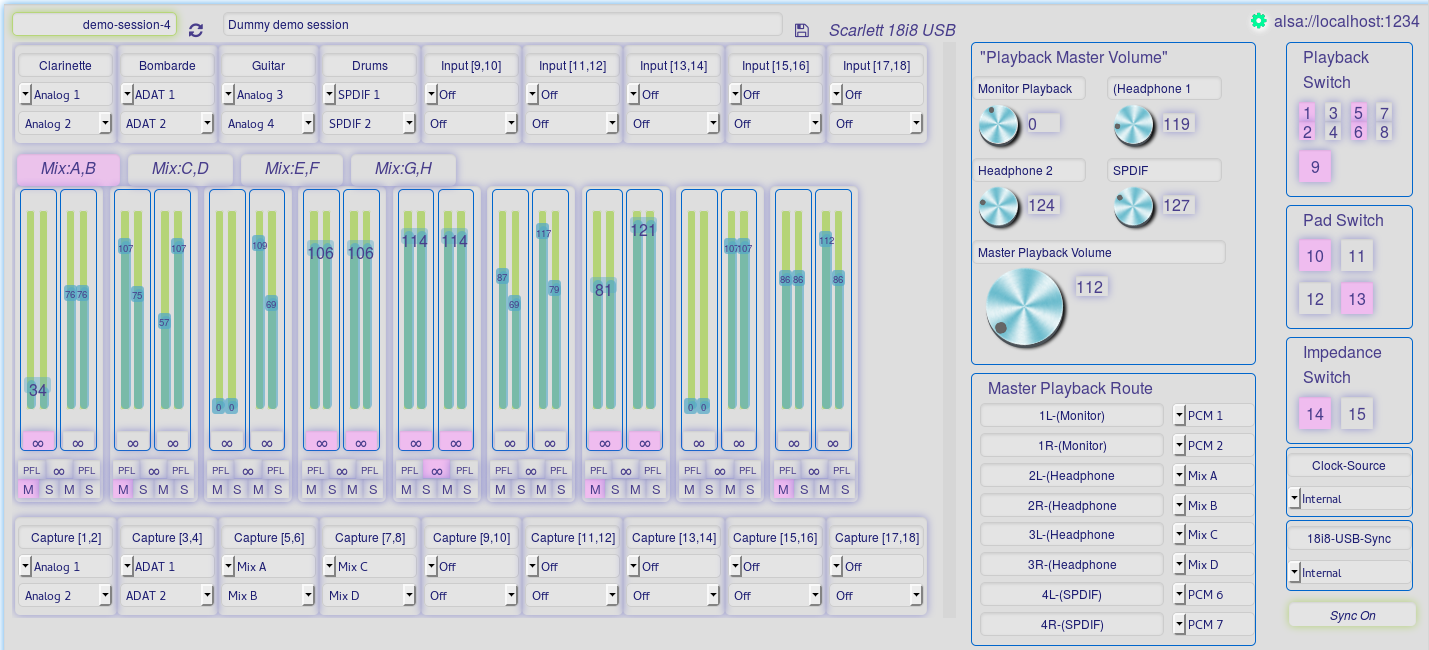
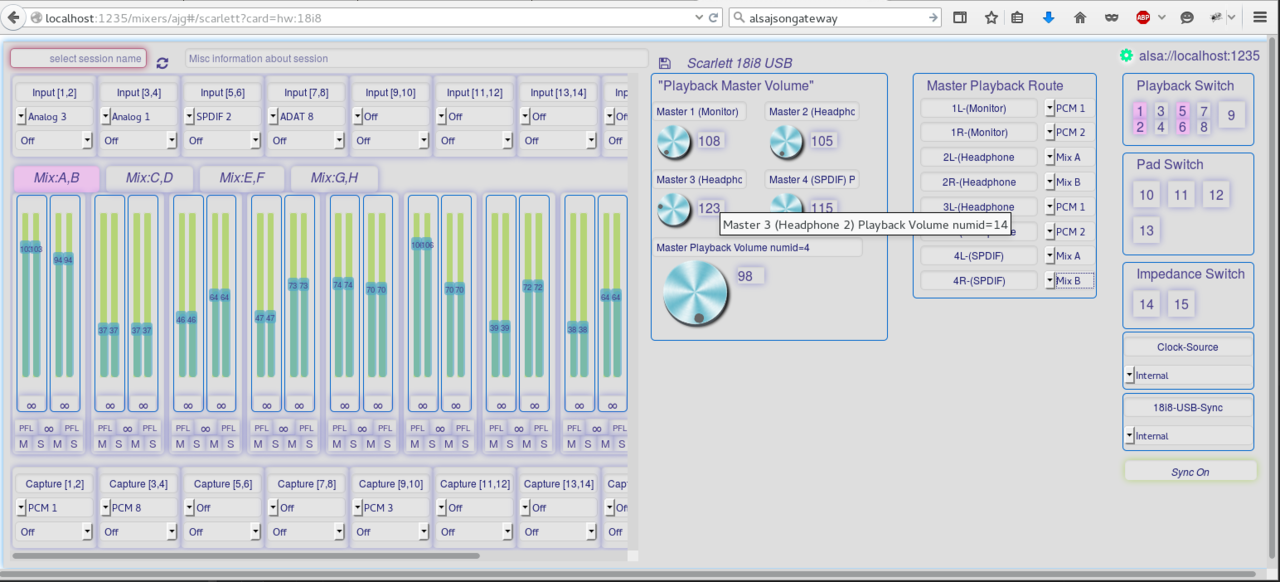
Updated CSS for and BootMixer for 18i20

diff --git a/www/mixers/js/common-mixer.js b/www/mixers/js/common-mixer.js
@@ -1,1 +1,1 @@
-"use strict";function ajgMasterVolume(a){function b(b,c,d){b.initWidget=function(c){void 0!==c&&(c.numid>200&&a.log("master-volume init=",c),b.volumes=c)},b.masterid=d.id|"master-"+parseInt(1e3*Math.random()),b.$watch("initvalues",function(){b.initvalues&&b.initWidget(b.initvalues)}),b.panelTitle=d.panelTitle||"Volumes"}var c='<div class="ajm-master-volume"> <p class="ajm-volume-title">"{{panelTitle}}"</p><knob-knob ng-repeat="volume in volumes"  title="{{volume.channel.label}}" callback="callback"   class="ajm-volume-knob valuecount-{{volume.channel.count}}" initvalues="volume"></knob-knob></div>';return{template:c,scope:{callback:"=",initvalues:"="},restrict:"E",link:b}}function labelByUid(){this.labelbyuid=[];var a=this;this.$get=function(){return a},this.register=function(a){a&&(this.labelbyuid[a.uid]=a)},this.setValue=function(a,b){a&&(this.labelbyuid[a]&&this.labelbyuid[a].setValue?this.labelbyuid[a].setValue(b):this.labelbyuid[a]={uid:a,label:b})},this.getPool=function(){var a=[],b=this.labelbyuid;return Object.keys(this.labelbyuid).forEach(function(c,d){var e=b[c];a.push({uid:e.uid,label:e.label})}),a},this.getValue=function(a){return this.labelbyuid[a]?this.labelbyuid[a].label:void 0},this.reset=function(){var a=this.labelbyuid;Object.keys(this.labelbyuid).forEach(function(b,c){a[b]&&a[b].setValue&&a[b].setValue(void 0)})}}function AjgNumidCtrlPool(){this.ctrlbynumid=[];var a=this;this.$get=function(){return a},this.register=function(a,b){b&&(this.ctrlbynumid[a]=b)},this.setValue=function(a,b){if(a){var c=this.ctrlbynumid[a];c&&c.setValue&&c.setValue(b)}},this.refreshPool=function(a){var b=this.ctrlbynumid;Object.keys(this.ctrlbynumid).forEach(function(c,d){if(b[c].getCbHandle){var e=b[c],f=e.getCbHandle();f.mixgrp==a&&e.forceRefresh(50)}})},this.getNumids=function(){{var a=[];this.ctrlbynumid}return Object.keys(this.ctrlbynumid).forEach(function(b,c){a.push(parseInt(b))}),a},this.getPool=function(){var a=[],b=this.ctrlbynumid;return Object.keys(this.ctrlbynumid).forEach(function(c,d){var e=b[c];a.push({numid:e.numid,value:e.value})}),a},this.getValue=function(a){return this.ctrlbynumid[a]?this.ctrlbynumid[a].value:void 0}}var ngapp=angular.module("mixer-ui-app",["ngRoute","ui-notification","bzm-range-slider","mm.foundation","ajm-knob-knob","ajm-playback-switch","ajm-register-numid","ajm-mixer-connect","ajm-monitor-gateway","ajm-matrix-route","ajm-matrix-fader","ajm-master-volume","ajm-matrix-label"]);ngapp.config(["$routeProvider","$locationProvider","$controllerProvider","$compileProvider","$filterProvider","$provide",function(a,b,c,d,e){ngapp.addController=c.register,ngapp.addDirective=d.directive,ngapp.routeProvider=a,ngapp.provide=e;var f;f=AJG_GLOBAL_DEBUG?["/mixers/dev/ScarlettMasterMod.js","/mixers/dev/ScarlettMixerMod.js","/mixers/dev/ScarlettCaptureMod.js"]:["/mixers/js/scarlett-mixer.js"],a.when("/",{templateUrl:"partials/mixer-connect.html"}).when("/scarlett",{templateUrl:"partials/scarlett-mixer.html",controller:"ScarlettMixerController as Scarlett",resolve:{deps:["$q","$rootScope",function(a,b){var c=a.defer();return $script(f,function(){b.$apply(function(){c.resolve()})}),c.promise}]}}).when("/scarlett-18i8-usb",{redirectTo:"/scarlett"}).otherwise({redirectTo:"/"})}]);var newModule=angular.module("ajm-knob-knob",[]);newModule.directive("knobKnob",["$log","$timeout","CtrlByNumid",function(a,b,c){function d(a,d,e,f){a.initWidget=function(b){void 0!==b&&(a.ctrl=b.ctrl,a.channel=b.channel,a.ctrl.notMore&&(a.range=a.ctrl.notMore-(a.ctrl.notLess||0)),a.handle||(a.handle=a.ctrl),a.setValue(a.ctrl.value),c.register(a.channel.numid,a))},a.setValue=function(b,c){if(!isNaN(b)){a.value=b;var d=a.value/a.range*360;a.rotate(d);for(var e=[],f=0;f<a.channel.count;f++)e.push(b);a.normalized=parseInt(Math.sqrt(b/a.range)*a.range),c&&a.callback&&a.callback(a.channel.numid,[a.normalized,a.normalized])}},a.rotate=function(b){var c=b%360;a.knobtop.css("transform","rotate("+c+"deg)")},a.toggleState=function(){a.actif?(a.actif=!1,d.removeClass("button-actif")):(a.actif=!0,d.addClass("button-actif"))},a.mouseEnter=function(){a.enter=!0,b.cancel(a.timeout),a.timeout=b(function(){a.enter=!1},3e3)},a.knobid=e.id|"knob-"+parseInt(1e3*Math.random()),a.knobtop=d.find("i"),a.notLess=e.notLess||0,a.notMore=e.notMore||100,a.range=a.notMore-a.notLess,a.masterid=e.id|"master-"+parseInt(1e3*Math.random()),a.$watch("initvalues",function(){a.initvalues&&a.initWidget(a.initvalues)})}var e='<div class="ajm-knob"  > <matrix-label class="ajm-knob-title" initvalues="channel"></matrix-label><div class="ajm-knob-button" ng-mouseover="mouseEnter()" > <i class="ajm-knob-top"></i><div class="ajm-knob-base" ></div><range-slider ng-show="actif || enter" formatter="setValue" callback="setValue" initvalues="ctrl"></range-slider></div><span class="ajm-knob-value">{{normalized}}</span></div>';return{template:e,scope:{callback:"=",initvalues:"="},restrict:"E",link:d}}]);var newModule=angular.module("ajm-master-volume",[]);newModule.directive("masterVolume",["$log",ajgMasterVolume]);var newModule=angular.module("ajm-matrix-fader",[]);newModule.directive("matrixFader",["$log","$timeout","CtrlByNumid",function(a,b,c){function d(a,b,d,e){a.prefad=[],a.initWidget=function(b){if(b){var c=b[0];a.range=c[0].ctrl.notMore-c[0].ctrl.notLess,2==c[0].length&&(a.stereo=!0),a.MixerModel=b,a.ctrlById=[],a.sliderById=[],a.syncMix=[];for(var d=(2===b.length,2===b[0].length),e=0;e<b.length;e++){d&&(a.syncMix[e]=!1);for(var f=b[e],g=0;g<f.length;g++){var h=f[g];a.ctrlById[h.channel.numid]=h.ctrl}}}},a.StereoMix=function(b,c){var d=angular.element(b.target);if(a.syncMix[c])a.syncMix[c]=!1,d.removeClass("pfl-button-actif"),Object.keys(a.sliderById).forEach(function(b,d){var e=a.sliderById[b].getCbHandle(),f=a.sliderById[b];e.idxin===c&&(f.updateClass("not-sync",!0),0!==e.idxout&&f.setDisable(!1))},a.sliderById);else{a.syncMix[c]=!0;var e=0;Object.keys(a.sliderById).forEach(function(b,d){var f=a.sliderById[b].getCbHandle(),g=a.sliderById[b];f.idxin===c&&(a.sliderById[b].updateClass("not-sync",!1),0==f.idxout?e=g.getValue():(g.setDisable(!0),g.setValue(e)))},a.sliderById),d.addClass("pfl-button-actif")}},a.SliderInit=function(b){var d=b.getCbHandle();a.sliderById[d.numid]=b,c.register(d.numid,b)},a.FaderSliderCB=function(b,c){var d=[];if(void 0==c)return b;if(a.prefad.PFLM)Object.keys(a.sliderById).forEach(function(c,e){var f=a.sliderById[c].getCbHandle(),g=a.sliderById[c];g.setValue(b),d.push(f.numid)},a.sliderById);else{var e=c.getCbHandle();if(d.push(e.numid),a.syncMix[e.idxin]){var f=a.sliderById[e.numid+1];f.setValue(b),d.push(e.numid+1)}}var g=parseInt(Math.sqrt(b/a.range)*a.range);return a.ismuted||a.callback(d,g),g},a.ToggleMute=function(b,c){if(c){a.ismuted=!0;var d=[];Object.keys(a.sliderById).forEach(function(c,e){var f=a.sliderById[c].getCbHandle();b==f.idxin&&d.push(f.numid)},a.sliderById),a.callback(d,0)}else a.ismuted=!1,Object.keys(a.sliderById).forEach(function(c,d){var e=a.sliderById[c].getCbHandle();if(b==e.idxin){var f=a.sliderById[c],g=f.getValue(g);a.callback([e.numid],g)}},a.sliderById)},a.PreFader=function(b,c){var d=angular.element(b.target);a.prefad[c]?(a.prefad[c]=!1,d.removeClass("pfl-button-actif"),"MUTL"==c&&a.ToggleMute(0,!1),"MUTR"==c&&a.ToggleMute(1,!1)):(a.prefad[c]=!0,d.addClass("pfl-button-actif"),"MUTL"==c&&a.ToggleMute(0,!0),"MUTR"==c&&a.ToggleMute(1,!0))},a.inputid=d.id||"analog-in-"+parseInt(1e3*Math.random()),a.name=d.name||"NoName",a.label=d.label||"NoLabel",a.switchid=d.id|"switch-"+parseInt(1e3*Math.random()),a.$watch("initvalues",function(){a.initvalues&&a.initWidget(a.initvalues)})}return{templateUrl:"partials/matrix-fader.html",scope:{callback:"=",initvalues:"="},restrict:"E",link:d}}]);var newModule=angular.module("ajm-matrix-label",[]);newModule.provider("LabelByUid",labelByUid),newModule.directive("matrixLabel",["$log","LabelByUid",function(a,b){function c(a,c,d,e){a.setValue=function(b){a.label=b},a.initWidget=function(){a.initvalues&&(a.list=d.list,a.placeholder=d.placeholder,a.uid=a.initvalues.uid,a.label=b.getValue(a.uid)||a.initvalues.label,b.register(a))},a.callback&&a.$watch("label",function(){a.callback(a.label,c)}),a.initWidget(),a.$watch("initvalues",a.initWidget)}var d="{ updateOn: 'default blur', debounce: {'default': 1000, 'blur': 0} }",e='<input type="text" class="ajm-matrix-label" ng-model="label" list={{list}} placeholder={{placeholder}} ng-model-options="'+d+'">';return{template:e,scope:{initvalues:"=",label:"=",used:"=",callback:"="},restrict:"E",link:c}}]);var newModule=angular.module("ajm-matrix-route",[]);newModule.directive("lineInput",["$log","CtrlByNumid",function(a,b){function c(a,b){var c=e.cloneNode(!1);return b.appendChild(c),c.label=a.name,c.textContent=a.name,c.value=a.id,c}function d(a,d,e){a.selectElem=d[0].firstChild,a.initWidget=function(c){a.channel=c,a.selection=c.value,a.selectElem.value=c.value,b.register(a.channel.numid,a)},a.setValue=function(b){a.selection=b,a.selectElem.value=b},a.$watch("matrixLinesPool",function(){for(var b=d[0].firstChild,e=0;e<a.matrixLinesPool.length;e++){var f=c(a.matrixLinesPool[e],b);a.matrixLinesPool[e].options.push(f),a.matrixLinesPool[e].used?f.disabled=!0:a.channel&&a.channel.value===e&&(a.callback(a.matrixLinesPool,a.channel,e,!0),f.selected=!0)}}),a.selected=function(){return a.selection=a.selectElem.value,void 0!==a.selection?a.matrixLinesPool[a.selection].used?void(a.selection=a.channel.value):void a.callback(a.matrixLinesPool,a.channel,a.selection):void 0},a.initvalues&&a.initWidget(a.initvalues)}var e=document.createElement("option"),f='<select title="{{channel.name}}" title={{channel.name}} ng-click="selected()"></select>';return{template:f,scope:{channel:"=",callback:"=",matrixLinesPool:"=",initvalues:"="},restrict:"E",link:d}}]),newModule.directive("matrixRoute",["$log",function(a){function b(b,c,d,e){b.leftLine="",b.rightLine="",b.prefad=[],b.initWidget=function(a){a&&(b.MatrixLines=a.lines,b.matrixLinesPool=a.matrixLinesPool,b.info={uid:a.uid,label:a.label})},b.selected=function(c,d,e,f){d&&(f||(a.log("free channel ",d.value),b.callback.free(c,d,d.value)),b.callback.take(c,d,e),d.value=e)},b.init=function(){b.inputid=d.id||"matrix-"+parseInt(1e3*Math.random()),b.name=d.name||"NoName",b.label=d.label||"NoLabel",b.initvalues&&b.initWidget(b.initvalues),b.$watch("initvalues",function(){b.initvalues&&b.initWidget(b.initvalues)})},b.init()}var c='<div class="ajm-matrix-route"><matrix-label class="ajm-route-label" initvalues="info"></matrix-label><div class="ajm-route-select" ng-repeat="line in MatrixLines"><line-input class="ajm-route-linein ajm-select-{{$index}}"  matrix-lines-pool="matrixLinesPool" initvalues="line" callback="selected"></line-input></div></div>';return{template:c,scope:{callback:"=",initvalues:"="},restrict:"E",link:b}}]);var newModule=angular.module("ajm-mixer-connect",[]);newModule.directive("mixerConnect",["$log","$timeout","$http","$location","$route",function(a,b,c,d,e){function f(a,b,f){a.sndbrand=function(a){var b=a.name.split(" ")[0];return b.toLowerCase()},a.getCards=function(){var b={request:"card-get-all"},d=c.get("/jsonapi",{params:b});d.success(function(b,c,d,e){return"AJG_sndlist"!=b.ajgtype?void alert("AJM:FATAL ajm-mixer-connect response="+b):(a.online=1,void(a.sndcards=b.data))}),d.error(function(b,c,d){a.online=0})},a.selectCard=function(b){if(void 0==b)return void alert("AJM:Fatal invalid sndcard index [please report bug]");var c="/"+a.sndcards[b].name.toLowerCase().replace(/ /g,"-");!c in e.routes&&(c="/generic"),d.path(c).search("card","hw:"+a.sndcards[b].cardid)},a.title=f.title||"Sound Cards @ Gateway",a.icon=f.icon,a.getCards()}var g='<div class="ajm-mixer-connect"><div><i class="ajm-connect-title">{{title}}<i><monitor-status class="ajm-connect-status" icon={{icon}}"></monitor-status></div><div  ng-repeat="sndcard in sndcards"><div  title="{{sndcard.info}}" ng-click="selectCard($index)"> <div class="row ajm-connect-sndcard ajm-{{sndbrand (sndcard)}}"><div class="small-10 columns"><span class="ajm-connect-name"> {{sndcard.name}} </span></div><div class="small-1 columns"><span class="ajm-connect-uid">  {{sndcard.devid}}  </span></div></div></div></div></div>';return{template:g,scope:{},restrict:"E",link:f}}]);var newModule=angular.module("ajm-monitor-gateway",[]);newModule.directive("monitorStatus",["$log","$timeout","$http","$location","Notification",function(a,b,c,d,e){function f(a){this.pingrate=1e3*a,this.elems=[],this.status;var d=this;this.register=function(a){this.elems.push(a),this.status?(a.addClass("ajm-online"),a.removeClass("ajm-offline")):(a.addClass("ajm-offline"),a.removeClass("ajm-online"))},this.online=function(){for(var a=0;a<this.elems.length;a++)this.elems[a].addClass("ajm-online"),this.elems[a].removeClass("ajm-offline")},this.offline=function(){for(var a=0;a<this.elems.length;a++)this.elems[a].addClass("ajm-offline"),this.elems[a].removeClass("ajm-online")},this.getping=function(){var a={request:"ping-get"},f=c.get("/jsonapi",{params:a});f.success(function(a,b,c,f){d.status||(e.success({message:"Alsa Server Back to Live",delay:3e3}),d.online()),d.status=1}),f.error(function(a,b,c){d.status&&(e.warning({message:"Alsa Server Lost",delay:5e3}),d.offline()),d.status=0}),b(d.getping,d.pingrate)},this.getping()}function g(a,b,c){a.init=function(){a.icon=c.icon||"fa-cog",a.hostname=d.host(),a.httpdport=d.port(),i.register(b)},a.init()}var h='<div class="ajm-monitor"><span class="ajm-monitor-gateway" ng-click="clicked($event)" >alsa://{{hostname}}:{{httpdport}}</span><i class="ajm-monitor-status fa fa-cog"></i></div>',i=new f(30);return{template:h,scope:{callback:"="},restrict:"E",link:g}}]);var newModule=angular.module("ajm-playback-switch",[]);newModule.directive("playbackSwitch",["$log","CtrlByNumid",function(a,b){function c(a,c,d,f){a.initWidget=function(c){var d,f=[];if(void 0!==c){for(d=0;d<c.value.length;d++)f.push(e++);a.indexes=f,a["switch"]=c,b.register(c.numid,a),a.extraclass=1===d?"playback-switch-master":""}};c.find("span");a.setValue=function(b){for(var d=a["switch"].value,e=c.find("span"),f=0;f<d.length;f++)d[f]=b[f],d[f]?e.addClass("button-actif"):e.removeClass("button-actif"),e=e.next()},a.toggleState=function(b,c){var d=angular.element(b.target),e=a["switch"].value;e[c]?(e[c]=!1,d.removeClass("button-actif")):(e[c]=!0,d.addClass("button-actif")),a.callback(a["switch"].numid,a["switch"].value)},"true"===d.first&&(e=1),a.switchid=d.id|"switch-"+parseInt(1e3*Math.random()),a.$watch("initvalues",function(){a.initvalues&&a.initWidget(a.initvalues)})}var d='<div class="playback-switch" title="{{switch.name}}">   <span ng-repeat="count in indexes" ng-click="toggleState($event, $index)" class="playback-switch-button {{extraclass}}">{{count}}</span></div>',e=0;return{template:d,scope:{callback:"=",initvalues:"="},restrict:"E",link:c}}]);var newModule=angular.module("ajm-register-numid",[]);newModule.provider("CtrlByNumid",AjgNumidCtrlPool);
+"use strict";function ajgMasterVolume(a){function b(b,c,d){b.initWidget=function(c){void 0!==c&&(c.numid>200&&a.log("master-volume init=",c),b.volumes=c)},b.masterid=d.id|"master-"+parseInt(1e3*Math.random()),b.$watch("initvalues",function(){b.initvalues&&b.initWidget(b.initvalues)}),b.panelTitle=d.panelTitle||"Volumes"}var c='<div class="ajm-master-volume"> <p class="ajm-volume-title">"{{panelTitle}}"</p><knob-knob ng-repeat="volume in volumes"  title="{{volume.channel.label}}" callback="callback"   class="ajm-volume-knob valuecount-{{volume.channel.count}}" initvalues="volume"></knob-knob></div>';return{template:c,scope:{callback:"=",initvalues:"="},restrict:"E",link:b}}function labelByUid(){this.labelbyuid=[];var a=this;this.$get=function(){return a},this.register=function(a){a&&(this.labelbyuid[a.uid]=a)},this.setValue=function(a,b){a&&(this.labelbyuid[a]&&this.labelbyuid[a].setValue?this.labelbyuid[a].setValue(b):this.labelbyuid[a]={uid:a,label:b})},this.getPool=function(){var a=[],b=this.labelbyuid;return Object.keys(this.labelbyuid).forEach(function(c,d){var e=b[c];a.push({uid:e.uid,label:e.label})}),a},this.getValue=function(a){return this.labelbyuid[a]?this.labelbyuid[a].label:void 0},this.reset=function(){var a=this.labelbyuid;Object.keys(this.labelbyuid).forEach(function(b,c){a[b]&&a[b].setValue&&a[b].setValue(void 0)})}}function AjgNumidCtrlPool(){this.ctrlbynumid=[];var a=this;this.$get=function(){return a},this.register=function(a,b){b&&(this.ctrlbynumid[a]=b)},this.setValue=function(a,b){if(a){var c=this.ctrlbynumid[a];c&&c.setValue&&c.setValue(b)}},this.refreshPool=function(a){var b=this.ctrlbynumid;Object.keys(this.ctrlbynumid).forEach(function(c,d){if(b[c].getCbHandle){var e=b[c],f=e.getCbHandle();f.mixgrp==a&&e.forceRefresh(50)}})},this.getNumids=function(){{var a=[];this.ctrlbynumid}return Object.keys(this.ctrlbynumid).forEach(function(b,c){a.push(parseInt(b))}),a},this.getPool=function(){var a=[],b=this.ctrlbynumid;return Object.keys(this.ctrlbynumid).forEach(function(c,d){var e=b[c];a.push({numid:e.numid,value:e.value})}),a},this.getValue=function(a){return this.ctrlbynumid[a]?this.ctrlbynumid[a].value:void 0}}var ngapp=angular.module("mixer-ui-app",["ngRoute","ui-notification","bzm-range-slider","mm.foundation","ajm-knob-knob","ajm-playback-switch","ajm-register-numid","ajm-mixer-connect","ajm-monitor-gateway","ajm-matrix-route","ajm-matrix-fader","ajm-master-volume","ajm-matrix-label"]);ngapp.config(["$routeProvider","$locationProvider","$controllerProvider","$compileProvider","$filterProvider","$provide",function(a,b,c,d,e){ngapp.addController=c.register,ngapp.addDirective=d.directive,ngapp.routeProvider=a,ngapp.provide=e;var f;f=AJG_GLOBAL_DEBUG?["/mixers/dev/ScarlettMasterMod.js","/mixers/dev/ScarlettMixerMod.js","/mixers/dev/ScarlettCaptureMod.js"]:["/mixers/js/scarlett-mixer.js"],a.when("/",{templateUrl:"partials/mixer-connect.html"}).when("/scarlett",{templateUrl:"partials/scarlett-mixer.html",controller:"ScarlettMixerController as Scarlett",resolve:{deps:["$q","$rootScope",function(a,b){var c=a.defer();return $script(f,function(){b.$apply(function(){c.resolve()})}),c.promise}]}}).when("/scarlett-18i8-usb",{redirectTo:"/scarlett"}).when("/scarlett-18i20-usb",{redirectTo:"/scarlett"}).otherwise({redirectTo:"/"})}]);var newModule=angular.module("ajm-knob-knob",[]);newModule.directive("knobKnob",["$log","$timeout","CtrlByNumid",function(a,b,c){function d(a,d,e,f){a.initWidget=function(b){void 0!==b&&(a.ctrl=b.ctrl,a.channel=b.channel,a.ctrl.notMore&&(a.range=a.ctrl.notMore-(a.ctrl.notLess||0)),a.handle||(a.handle=a.ctrl),a.setValue(a.ctrl.value),c.register(a.channel.numid,a))},a.setValue=function(b,c){if(!isNaN(b)){a.value=b;var d=a.value/a.range*360;a.rotate(d);for(var e=[],f=0;f<a.channel.count;f++)e.push(b);a.normalized=parseInt(Math.sqrt(b/a.range)*a.range),c&&a.callback&&a.callback(a.channel.numid,[a.normalized,a.normalized])}},a.rotate=function(b){var c=b%360;a.knobtop.css("transform","rotate("+c+"deg)")},a.toggleState=function(){a.actif?(a.actif=!1,d.removeClass("button-actif")):(a.actif=!0,d.addClass("button-actif"))},a.mouseEnter=function(){a.enter=!0,b.cancel(a.timeout),a.timeout=b(function(){a.enter=!1},3e3)},a.knobid=e.id|"knob-"+parseInt(1e3*Math.random()),a.knobtop=d.find("i"),a.notLess=e.notLess||0,a.notMore=e.notMore||100,a.range=a.notMore-a.notLess,a.masterid=e.id|"master-"+parseInt(1e3*Math.random()),a.$watch("initvalues",function(){a.initvalues&&a.initWidget(a.initvalues)})}var e='<div class="ajm-knob"  > <matrix-label class="ajm-knob-title" initvalues="channel"></matrix-label><div class="ajm-knob-button" ng-mouseover="mouseEnter()" > <i class="ajm-knob-top"></i><div class="ajm-knob-base" ></div><range-slider ng-show="actif || enter" formatter="setValue" callback="setValue" initvalues="ctrl"></range-slider></div><span class="ajm-knob-value">{{normalized}}</span></div>';return{template:e,scope:{callback:"=",initvalues:"="},restrict:"E",link:d}}]);var newModule=angular.module("ajm-master-volume",[]);newModule.directive("masterVolume",["$log",ajgMasterVolume]);var newModule=angular.module("ajm-matrix-fader",[]);newModule.directive("matrixFader",["$log","$timeout","CtrlByNumid",function(a,b,c){function d(a,b,d,e){a.prefad=[],a.initWidget=function(b){if(b){var c=b[0];a.range=c[0].ctrl.notMore-c[0].ctrl.notLess,2==c[0].length&&(a.stereo=!0),a.MixerModel=b,a.ctrlById=[],a.sliderById=[],a.syncMix=[];for(var d=(2===b.length,2===b[0].length),e=0;e<b.length;e++){d&&(a.syncMix[e]=!1);for(var f=b[e],g=0;g<f.length;g++){var h=f[g];a.ctrlById[h.channel.numid]=h.ctrl}}}},a.StereoMix=function(b,c){var d=angular.element(b.target);if(a.syncMix[c])a.syncMix[c]=!1,d.removeClass("pfl-button-actif"),Object.keys(a.sliderById).forEach(function(b,d){var e=a.sliderById[b].getCbHandle(),f=a.sliderById[b];e.idxin===c&&(f.updateClass("not-sync",!0),0!==e.idxout&&f.setDisable(!1))},a.sliderById);else{a.syncMix[c]=!0;var e=0;Object.keys(a.sliderById).forEach(function(b,d){var f=a.sliderById[b].getCbHandle(),g=a.sliderById[b];f.idxin===c&&(a.sliderById[b].updateClass("not-sync",!1),0==f.idxout?e=g.getValue():(g.setDisable(!0),g.setValue(e)))},a.sliderById),d.addClass("pfl-button-actif")}},a.SliderInit=function(b){var d=b.getCbHandle();a.sliderById[d.numid]=b,c.register(d.numid,b)},a.FaderSliderCB=function(b,c){var d=[];if(void 0==c)return b;if(a.prefad.PFLM)Object.keys(a.sliderById).forEach(function(c,e){var f=a.sliderById[c].getCbHandle(),g=a.sliderById[c];g.setValue(b),d.push(f.numid)},a.sliderById);else{var e=c.getCbHandle();if(d.push(e.numid),a.syncMix[e.idxin]){var f=a.sliderById[e.numid+1];f.setValue(b),d.push(e.numid+1)}}var g=parseInt(Math.sqrt(b/a.range)*a.range);return a.ismuted||a.callback(d,g),g},a.ToggleMute=function(b,c){if(c){a.ismuted=!0;var d=[];Object.keys(a.sliderById).forEach(function(c,e){var f=a.sliderById[c].getCbHandle();b==f.idxin&&d.push(f.numid)},a.sliderById),a.callback(d,0)}else a.ismuted=!1,Object.keys(a.sliderById).forEach(function(c,d){var e=a.sliderById[c].getCbHandle();if(b==e.idxin){var f=a.sliderById[c],g=f.getValue(g);a.callback([e.numid],g)}},a.sliderById)},a.PreFader=function(b,c){var d=angular.element(b.target);a.prefad[c]?(a.prefad[c]=!1,d.removeClass("pfl-button-actif"),"MUTL"==c&&a.ToggleMute(0,!1),"MUTR"==c&&a.ToggleMute(1,!1)):(a.prefad[c]=!0,d.addClass("pfl-button-actif"),"MUTL"==c&&a.ToggleMute(0,!0),"MUTR"==c&&a.ToggleMute(1,!0))},a.inputid=d.id||"analog-in-"+parseInt(1e3*Math.random()),a.name=d.name||"NoName",a.label=d.label||"NoLabel",a.switchid=d.id|"switch-"+parseInt(1e3*Math.random()),a.$watch("initvalues",function(){a.initvalues&&a.initWidget(a.initvalues)})}return{templateUrl:"partials/matrix-fader.html",scope:{callback:"=",initvalues:"="},restrict:"E",link:d}}]);var newModule=angular.module("ajm-matrix-label",[]);newModule.provider("LabelByUid",labelByUid),newModule.directive("matrixLabel",["$log","LabelByUid",function(a,b){function c(a,c,d,e){a.setValue=function(b){a.label=b},a.initWidget=function(){a.initvalues&&(a.list=d.list,a.placeholder=d.placeholder,a.uid=a.initvalues.uid,a.label=b.getValue(a.uid)||a.initvalues.label,b.register(a))},a.callback&&a.$watch("label",function(){a.callback(a.label,c)}),a.initWidget(),a.$watch("initvalues",a.initWidget)}var d="{ updateOn: 'default blur', debounce: {'default': 1000, 'blur': 0} }",e='<input type="text" class="ajm-matrix-label" ng-model="label" list={{list}} placeholder={{placeholder}} ng-model-options="'+d+'">';return{template:e,scope:{initvalues:"=",label:"=",used:"=",callback:"="},restrict:"E",link:c}}]);var newModule=angular.module("ajm-matrix-route",[]);newModule.directive("lineInput",["$log","CtrlByNumid",function(a,b){function c(a,b){var c=e.cloneNode(!1);return b.appendChild(c),c.label=a.name,c.textContent=a.name,c.value=a.id,c}function d(a,d,e){a.selectElem=d[0].firstChild,a.initWidget=function(c){a.channel=c,a.selection=c.value,a.selectElem.value=c.value,b.register(a.channel.numid,a)},a.setValue=function(b){a.selection=b,a.selectElem.value=b},a.$watch("matrixLinesPool",function(){for(var b=d[0].firstChild,e=0;e<a.matrixLinesPool.length;e++){var f=c(a.matrixLinesPool[e],b);a.matrixLinesPool[e].options.push(f),a.matrixLinesPool[e].used?f.disabled=!0:a.channel&&a.channel.value===e&&(a.callback(a.matrixLinesPool,a.channel,e,!0),f.selected=!0)}}),a.selected=function(){return a.selection=a.selectElem.value,void 0!==a.selection?a.matrixLinesPool[a.selection].used?void(a.selection=a.channel.value):void a.callback(a.matrixLinesPool,a.channel,a.selection):void 0},a.initvalues&&a.initWidget(a.initvalues)}var e=document.createElement("option"),f='<select title="{{channel.name}}" title={{channel.name}} ng-click="selected()"></select>';return{template:f,scope:{channel:"=",callback:"=",matrixLinesPool:"=",initvalues:"="},restrict:"E",link:d}}]),newModule.directive("matrixRoute",["$log",function(a){function b(b,c,d,e){b.leftLine="",b.rightLine="",b.prefad=[],b.initWidget=function(a){a&&(b.MatrixLines=a.lines,b.matrixLinesPool=a.matrixLinesPool,b.info={uid:a.uid,label:a.label})},b.selected=function(c,d,e,f){d&&(f||(a.log("free channel ",d.value),b.callback.free(c,d,d.value)),b.callback.take(c,d,e),d.value=e)},b.init=function(){b.inputid=d.id||"matrix-"+parseInt(1e3*Math.random()),b.name=d.name||"NoName",b.label=d.label||"NoLabel",b.initvalues&&b.initWidget(b.initvalues),b.$watch("initvalues",function(){b.initvalues&&b.initWidget(b.initvalues)})},b.init()}var c='<div class="ajm-matrix-route"><matrix-label class="ajm-route-label" initvalues="info"></matrix-label><div class="ajm-route-select" ng-repeat="line in MatrixLines"><line-input class="ajm-route-linein ajm-select-{{$index}}"  matrix-lines-pool="matrixLinesPool" initvalues="line" callback="selected"></line-input></div></div>';return{template:c,scope:{callback:"=",initvalues:"="},restrict:"E",link:b}}]);var newModule=angular.module("ajm-mixer-connect",[]);newModule.directive("mixerConnect",["$log","$timeout","$http","$location","$route",function(a,b,c,d,e){function f(a,b,f){a.sndbrand=function(a){var b=a.name.split(" ")[0];return b.toLowerCase()},a.getCards=function(){var b={request:"card-get-all"},d=c.get("/jsonapi",{params:b});d.success(function(b,c,d,e){return"AJG_sndlist"!=b.ajgtype?void alert("AJM:FATAL ajm-mixer-connect response="+b):(a.online=1,void(a.sndcards=b.data))}),d.error(function(b,c,d){a.online=0})},a.selectCard=function(b){if(void 0==b)return void alert("AJM:Fatal invalid sndcard index [please report bug]");var c="/"+a.sndcards[b].name.toLowerCase().replace(/ /g,"-");!c in e.routes&&(c="/generic"),d.path(c).search("card","hw:"+a.sndcards[b].cardid)},a.title=f.title||"Sound Cards @ Gateway",a.icon=f.icon,a.getCards()}var g='<div class="ajm-mixer-connect"><div><i class="ajm-connect-title">{{title}}<i><monitor-status class="ajm-connect-status" icon={{icon}}"></monitor-status></div><div  ng-repeat="sndcard in sndcards"><div  title="{{sndcard.info}}" ng-click="selectCard($index)"> <div class="row ajm-connect-sndcard ajm-{{sndbrand (sndcard)}}"><div class="small-10 columns"><span class="ajm-connect-name"> {{sndcard.name}} </span></div><div class="small-1 columns"><span class="ajm-connect-uid">  {{sndcard.devid}}  </span></div></div></div></div></div>';return{template:g,scope:{},restrict:"E",link:f}}]);var newModule=angular.module("ajm-monitor-gateway",[]);newModule.directive("monitorStatus",["$log","$timeout","$http","$location","Notification",function(a,b,c,d,e){function f(a){this.pingrate=1e3*a,this.elems=[],this.status;var d=this;this.register=function(a){this.elems.push(a),this.status?(a.addClass("ajm-online"),a.removeClass("ajm-offline")):(a.addClass("ajm-offline"),a.removeClass("ajm-online"))},this.online=function(){for(var a=0;a<this.elems.length;a++)this.elems[a].addClass("ajm-online"),this.elems[a].removeClass("ajm-offline")},this.offline=function(){for(var a=0;a<this.elems.length;a++)this.elems[a].addClass("ajm-offline"),this.elems[a].removeClass("ajm-online")},this.getping=function(){var a={request:"ping-get"},f=c.get("/jsonapi",{params:a});f.success(function(a,b,c,f){d.status||(e.success({message:"Alsa Server Back to Live",delay:3e3}),d.online()),d.status=1}),f.error(function(a,b,c){d.status&&(e.warning({message:"Alsa Server Lost",delay:5e3}),d.offline()),d.status=0}),b(d.getping,d.pingrate)},this.getping()}function g(a,b,c){a.init=function(){a.icon=c.icon||"fa-cog",a.hostname=d.host(),a.httpdport=d.port(),i.register(b)},a.init()}var h='<div class="ajm-monitor"><span class="ajm-monitor-gateway" ng-click="clicked($event)" >alsa://{{hostname}}:{{httpdport}}</span><i class="ajm-monitor-status fa fa-cog"></i></div>',i=new f(30);return{template:h,scope:{callback:"="},restrict:"E",link:g}}]);var newModule=angular.module("ajm-playback-switch",[]);newModule.directive("playbackSwitch",["$log","CtrlByNumid",function(a,b){function c(a,c,d,f){a.initWidget=function(c){var d,f=[];if(void 0!==c){for(d=0;d<c.value.length;d++)f.push(e++);a.indexes=f,a["switch"]=c,b.register(c.numid,a),a.extraclass=1===d?"playback-switch-master":""}};c.find("span");a.setValue=function(b){for(var d=a["switch"].value,e=c.find("span"),f=0;f<d.length;f++)d[f]=b[f],d[f]?e.addClass("button-actif"):e.removeClass("button-actif"),e=e.next()},a.toggleState=function(b,c){var d=angular.element(b.target),e=a["switch"].value;e[c]?(e[c]=!1,d.removeClass("button-actif")):(e[c]=!0,d.addClass("button-actif")),a.callback(a["switch"].numid,a["switch"].value)},"true"===d.first&&(e=1),a.switchid=d.id|"switch-"+parseInt(1e3*Math.random()),a.$watch("initvalues",function(){a.initvalues&&a.initWidget(a.initvalues)})}var d='<div class="playback-switch" title="{{switch.name}}">   <span ng-repeat="count in indexes" ng-click="toggleState($event, $index)" class="playback-switch-button {{extraclass}}">{{count}}</span></div>',e=0;return{template:d,scope:{callback:"=",initvalues:"="},restrict:"E",link:c}}]);var newModule=angular.module("ajm-register-numid",[]);newModule.provider("CtrlByNumid",AjgNumidCtrlPool);

diff --git a/src/scarlett-ui/html/scarlett-master.html b/src/scarlett-ui/html/scarlett-master.html
@@ -1,18 +1,16 @@
 <div class="ajm-scarlett-master">
 
-  <div class="small-8 columns">
-     <div class="row collapse">
+  <div class="small-5 columns">
         <master-volume initvalues="volumes" panel-title="Playback Master Volume" callback="ActivateCtrlsCB" ></master-volume>
-     </div>
-      <div class="row collapse">
+  </div>
+  <div class="small-4 columns">
           <div  class="playback-switch-table">
               <p class="switch-title">Master Playback Route</p>
               <matrix-route ng-repeat="playbackRoute in playSources" class="playback-source" initvalues="playbackRoute"  callback="MatrixPoolCB" ></matrix-route>
           </div>
-      </div>
   </div>
 
-  <div class="small-4 columns">
+  <div class="small-3 columns">
       <div class="row collapse master-bottom-switch-zone">
           <div class="playback-switch-table">
               <p class="switch-title">Playback Switch</p>

diff --git a/www/mixers/partials/scarlett-master.html b/www/mixers/partials/scarlett-master.html
@@ -1,18 +1,16 @@
 <div class="ajm-scarlett-master">
 
-  <div class="small-8 columns">
-     <div class="row collapse">
+  <div class="small-5 columns">
         <master-volume initvalues="volumes" panel-title="Playback Master Volume" callback="ActivateCtrlsCB" ></master-volume>
-     </div>
-      <div class="row collapse">
+  </div>
+  <div class="small-4 columns">
           <div  class="playback-switch-table">
               <p class="switch-title">Master Playback Route</p>
               <matrix-route ng-repeat="playbackRoute in playSources" class="playback-source" initvalues="playbackRoute"  callback="MatrixPoolCB" ></matrix-route>
           </div>
-      </div>
   </div>
 
-  <div class="small-4 columns">
+  <div class="small-3 columns">
       <div class="row collapse master-bottom-switch-zone">
           <div class="playback-switch-table">
               <p class="switch-title">Playback Switch</p>

diff --git a/src/scarlett-ui/html/scarlett-mixer.html b/src/scarlett-ui/html/scarlett-mixer.html
@@ -19,11 +19,11 @@
   	    </div>
 	</div>
 	<div class="row collapse">
-		<div class="small-8 columns">
+		<div class="small-6 columns">
 			<scarlett-capture initvalues="Scarlett.alsamixer" callback="Scarlett.SendAlsaCtrlsCB" ></scarlett-capture>
 		</div>
 
-		<div class="small-4 columns left">
+		<div class="small-6 columns left">
 			<scarlett-master initvalues="Scarlett.alsamaster" syncstatus="BoardSyncStatus" callback="Scarlett.SendAlsaCtrlsCB" ></scarlett-master>
 		</div>
 	</div>

diff --git a/www/mixers/partials/scarlett-mixer.html b/www/mixers/partials/scarlett-mixer.html
@@ -19,11 +19,11 @@
   	    </div>
 	</div>
 	<div class="row collapse">
-		<div class="small-8 columns">
+		<div class="small-6 columns">
 			<scarlett-capture initvalues="Scarlett.alsamixer" callback="Scarlett.SendAlsaCtrlsCB" ></scarlett-capture>
 		</div>
 
-		<div class="small-4 columns left">
+		<div class="small-6 columns left">
 			<scarlett-master initvalues="Scarlett.alsamaster" syncstatus="BoardSyncStatus" callback="Scarlett.SendAlsaCtrlsCB" ></scarlett-master>
 		</div>
 	</div>

diff --git a/src/common-ui/js/BootMixerApp.js b/src/common-ui/js/BootMixerApp.js
@@ -67,7 +67,8 @@ ngapp.config(['$routeProvider', '$locationProvider', '$controllerProvider', '$co
             }).
 
             // aliases to sound cards [lowercase cardname, ' ' --> '-']
-            when('/scarlett-18i8-usb', {redirectTo: '/scarlett'}).
+            when('/scarlett-18i8-usb',  {redirectTo: '/scarlett'}).
+            when('/scarlett-18i20-usb', {redirectTo: '/scarlett'}).
 
             otherwise({redirectTo: '/'});
 

diff --git a/www/mixers/dev/BootMixerApp.js b/www/mixers/dev/BootMixerApp.js
@@ -67,7 +67,8 @@ ngapp.config(['$routeProvider', '$locationProvider', '$controllerProvider', '$co
             }).
 
             // aliases to sound cards [lowercase cardname, ' ' --> '-']
-            when('/scarlett-18i8-usb', {redirectTo: '/scarlett'}).
+            when('/scarlett-18i8-usb',  {redirectTo: '/scarlett'}).
+            when('/scarlett-18i20-usb', {redirectTo: '/scarlett'}).
 
             otherwise({redirectTo: '/'});
 

diff --git a/src/scarlett-ui/js/ScarlettMixerMod.js b/src/scarlett-ui/js/ScarlettMixerMod.js
@@ -35,7 +35,6 @@ function ScarlettController ($log, $location, $http, $timeout, Notification, Ctr
     scope.SessionLabelName = {uid:'session', label:'current-session'};
     scope.SessionLabelInfo = {uid:'info', label: undefined};
 
-
     // load session list
     scope.ResetSession = function (resetmod) {
 

diff --git a/www/mixers/dev/ScarlettMixerMod.js b/www/mixers/dev/ScarlettMixerMod.js
@@ -35,7 +35,6 @@ function ScarlettController ($log, $location, $http, $timeout, Notification, Ctr
     scope.SessionLabelName = {uid:'session', label:'current-session'};
     scope.SessionLabelInfo = {uid:'info', label: undefined};
 
-
     // load session list
     scope.ResetSession = function (resetmod) {
 

diff --git a/README.md b/README.md
@@ -6,12 +6,16 @@ and should run on any modern browser [Check with online demo before installing].
 on generic widget this UI is currently only supporting Scarlett Focurite boards, if you're willing
 to add your own board feel free to propose your code.
 
-Current version while still in Alfa mode is fully operational and control 100% of ALSA features.
+Current version while still in Alpha mode is fully operational and control 100% of ALSA features.
 On top of traditional Alsa controls, UI provides a session management mechanism to load/store configurations.
 Sessions include all settings for volumes and routing as well as custom labels given control.
 
 * Online Demo: http://breizhme.net/alsajson
 * Video   https://vimeo.com/user36538868/alsa-html5-mixer
+
+Tested on:
+* Scarlett 18i8
+* Scarlett 18i20 [thanks to happy.musicmaker]
 
 Dependencies:
 * HTML5 Browser any modern version of Firefox,Chrome,Safari or even IE should do the job.
